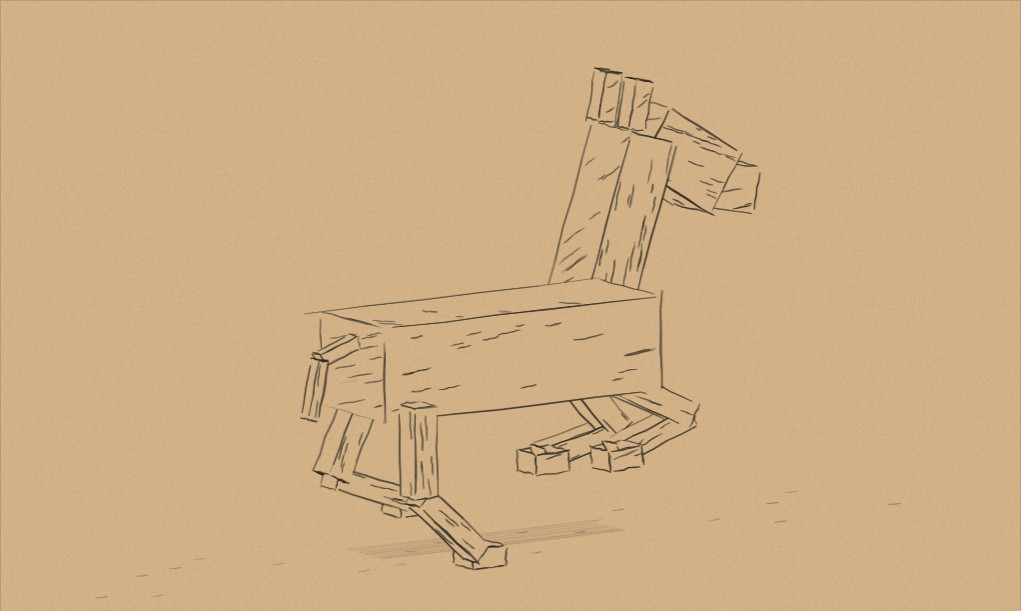
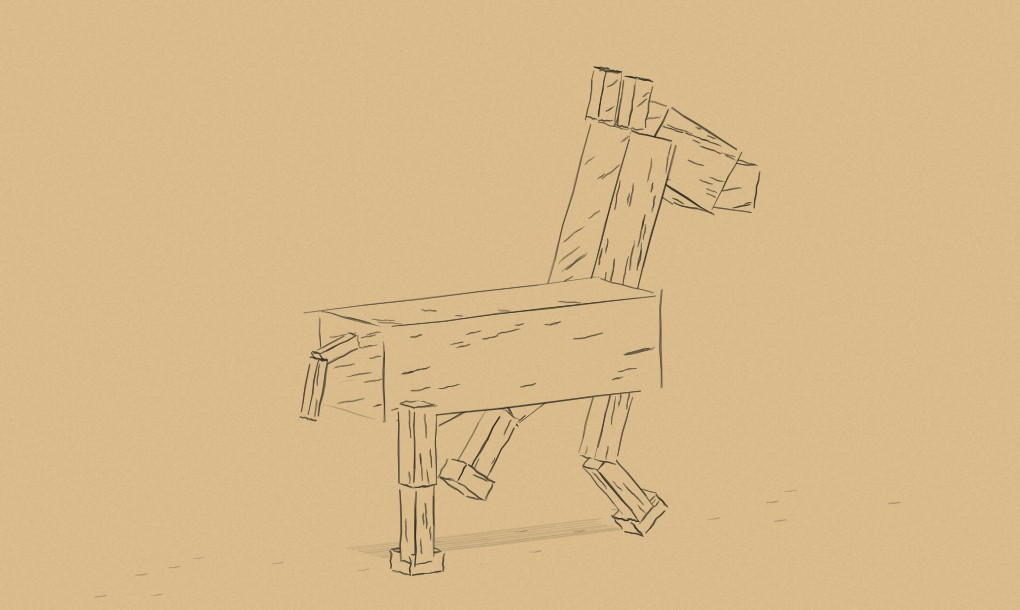
feat: give Honse one body spring and three silly move modes
Session: ses_f0e66500effeWBmyog7H3zwBqT

diff --git a/src/components/interactive/horse-model.ts b/src/components/interactive/horse-model.ts
@@ -1,8 +1,10 @@
 export type Vec3 = [number, number, number];
-export type HorseSettings = { speed: number; gravity: number; goofy: number };
+export const HORSE_MODES = ['flail', 'naruto', 'paddle'] as const;
+export type HorseMode = typeof HORSE_MODES[number];
+export type HorseSettings = { speed: number; gravity: number; goofy: number; mode: HorseMode };
 export type HorseState = {
   time: number; phase: number; height: number; velocity: number;
-  pitch: number; spin: number; contacts: number;
+  springForce: number;
 };
 export type HorseBlock = { id: number; center: Vec3; size: Vec3; angle: number };
 export const HORSE_STEP = 1/120;
@@ -10,104 +12,80 @@ const TAU = Math.PI*2;
 const clamp = (x:number,a:number,b:number) => Math.max(a,Math.min(b,x));
 
 export function createHorse(): HorseState {
-  return {time:0,phase:0,height:1.65,velocity:0,pitch:0,spin:0,contacts:0};
+  return {time:0,phase:0,height:1.65,velocity:0,springForce:0};
 }
 
-// A stylized transverse four-beat order: hind pair, then front pair, with a
-// flight window. These are motor targets, not a measured equine gait.
+// Legs are visual appendages only. They never enter the body force calculation.
 const legs = [
-  {x:-1.03,z:.42,offset:0,bend:-1}, {x:-1.03,z:-.42,offset:.12,bend:-1},
-  {x:1.02,z:.42,offset:.40,bend:1}, {x:1.02,z:-.42,offset:.53,bend:1},
+  {x:-1.03,z:.42}, {x:-1.03,z:-.42},
+  {x:1.02,z:.42}, {x:1.02,z:-.42},
 ];
-
-function legTarget(phase:number, index:number, goofy:number): Vec3 {
-  const leg=legs[index];
-  const cycle=((phase/TAU-leg.offset)%1+1)%1;
-  const stance=.25;
-  const swing=clamp((cycle-stance)/(1-stance),0,1);
-  const stride=.48+goofy*.22;
-  const x=cycle<stance ? stride*(1-2*cycle/stance) : stride*(-1+2*swing);
-  const lift=cycle<stance ? 0 : Math.sin(Math.PI*swing)*(.58+goofy*.27);
-  return [leg.x+x,-1.65+lift,leg.z];
-}
 
 function pitchPoint(p:Vec3, angle:number): Vec3 {
   return [p[0]*Math.cos(angle)-p[1]*Math.sin(angle),p[0]*Math.sin(angle)+p[1]*Math.cos(angle),p[2]];
 }
 
-/** Small, motor-driven toy dynamics: semi-implicit fixed steps, gravity,
- * spring/damper hoof contacts and a pitch inertia. Inspired by APS's separation
- * of actuator commands, integration and visual geometry; not a MuJoCo port. */
+/** One invisible, powered spring under the main body. Gravity and this spring
+ * are the only continuous forces. Its oscillating rest length keeps the bounce
+ * going; the attached spring pushes when compressed and pulls when stretched.
+ * Movement modes affect presentation only, not support, collisions or physics. */
 export function stepHorse(state:HorseState, settings:HorseSettings, dt=HORSE_STEP) {
-  const oldPhase=state.phase;
   state.phase=(state.phase+dt*TAU*1.25*settings.speed)%TAU;
   state.time+=dt;
-  let force=0, torque=0, contacts=0;
-  for (let i=0;i<4;i++) {
-    const old=pitchPoint(legTarget(oldPhase,i,settings.goofy),state.pitch);
-    const foot=pitchPoint(legTarget(state.phase,i,settings.goofy),state.pitch);
-    const ground=state.height+foot[1]-.125;
-    const velocity=state.velocity+.25*(foot[1]-old[1])/dt+state.spin*foot[0];
-    if (ground<0) {
-      const reaction=clamp(-ground*600-velocity*20,0,120);
-      force+=reaction; torque+=foot[0]*reaction;
-      if (reaction>1) contacts++;
-    }
-  }
-  const mass=8, inertia=6;
-  state.velocity+=(force/mass-settings.gravity)*dt;
+  const mass=8, stiffness=260, damping=18;
+  const restHeight=1.98+Math.sin(state.phase)*(.16+settings.goofy*.20);
+  const compression=restHeight-state.height;
+  state.springForce=clamp(stiffness*compression-damping*state.velocity,-400,400);
+  state.velocity+=(state.springForce/mass-settings.gravity)*dt;
   state.height+=state.velocity*dt;
-  // A modest attitude controller stands in for the horse's balance reflex.
-  const targetPitch=Math.sin(state.phase-.6)*settings.goofy*.045;
-  state.spin+=(torque-300*(state.pitch-targetPitch)-55*state.spin)/inertia*dt;
-  state.pitch+=state.spin*dt;
-  if (Math.abs(state.pitch)>.45) { state.pitch=clamp(state.pitch,-.45,.45); state.spin*=.3; }
-  // Torso floor guard for extreme control settings and deliberate silly hops.
-  if (state.height<.72) { state.height=.72; state.velocity=Math.max(0,-state.velocity*.12); }
-  // Bound penetration of the compliant contacts (a positional solver guard,
-  // not a prescribed height animation). This also handles a motor moving fast
-  // enough to cross the floor between fixed steps.
-  let penetration=0;
-  for(let i=0;i<4;i++) {
-    const foot=pitchPoint(legTarget(state.phase,i,settings.goofy),state.pitch);
-    penetration=Math.max(penetration,.125-state.height-foot[1]);
-  }
-  if(penetration>.065) {state.height+=penetration-.065;state.velocity=Math.max(state.velocity,-.8);}
-  state.contacts=contacts;
 }
 
 export function hopHorse(state:HorseState) { state.velocity=clamp(state.velocity+2.7,0,4.3); }
 
 export function horseBlocks(state:HorseState, settings:HorseSettings): HorseBlock[] {
   const blocks:HorseBlock[]=[];
+  const {phase}=state,{mode,goofy}=settings;
+  // Lean and wobble belong to the performance, not the spring simulation.
+  const pitch=mode==='naruto' ? -.18-goofy*.12+Math.sin(phase*2)*.025
+    : Math.sin(phase)*(mode==='paddle' ? .025 : .025+goofy*.055);
   const local=(p:Vec3):Vec3=>{
-    const q=pitchPoint(p,state.pitch); return [q[0],q[1]+state.height,q[2]];
+    const q=pitchPoint(p,pitch); return [q[0],q[1]+state.height,q[2]];
   };
-  const box=(id:number,center:Vec3,size:Vec3,angle=0)=>blocks.push({id,center:local(center),size,angle:angle+state.pitch});
+  const box=(id:number,center:Vec3,size:Vec3,angle=0)=>blocks.push({id,center:local(center),size,angle:angle+pitch});
   const beam=(id:number,a:Vec3,b:Vec3,width:number,depth:number)=>{
     const len=Math.hypot(b[0]-a[0],b[1]-a[1]);
     box(id,[(a[0]+b[0])/2,(a[1]+b[1])/2,(a[2]+b[2])/2],[len,width,depth],Math.atan2(b[1]-a[1],b[0]-a[0]));
   };
   box(0,[0,0,0],[2.85,.82,1.0]);
   const nod=Math.sin(state.phase-1)*(.025+settings.goofy*.11);
-  const neckBase:Vec3=[1.0,.3,0], poll:Vec3=[1.55+nod,1.76,0];
+  const lean=mode==='naruto'?1:0;
+  const neckBase:Vec3=[1.0,.3,0], poll:Vec3=[1.55+nod+lean*.40,1.76-lean*.38,0];
   beam(1,neckBase,poll,.49,.62);
-  beam(2,poll,[2.28+nod,1.36+nod,0],.59,.65);
-  box(3,[2.36+nod,1.32+nod,0],[.46,.40,.68],-.12+nod);
-  box(4,[1.40+nod,2.06,.24],[.17,.43,.18],-.12+nod);
-  box(5,[1.40+nod,2.06,-.24],[.17,.43,.18],-.12+nod);
+  beam(2,poll,[2.28+nod+lean*.5,1.36+nod-lean*.38,0],.59,.65);
+  box(3,[2.36+nod+lean*.5,1.32+nod-lean*.38,0],[.46,.40,.68],-.12+nod);
+  box(4,[1.40+nod+lean*.4,2.06-lean*.38,.24],[.17,.43,.18],-.12+nod);
+  box(5,[1.40+nod+lean*.4,2.06-lean*.38,-.24],[.17,.43,.18],-.12+nod);
   for (let i=0;i<4;i++) {
     const leg=legs[i], hip:Vec3=[leg.x,-.31,leg.z];
-    const target=legTarget(state.phase,i,settings.goofy);
-    const dx=target[0]-hip[0], dy=target[1]-hip[1];
-    const length=Math.max(.01,Math.hypot(dx,dy));
-    const reach=Math.min(length,1.58);
-    const foot:Vec3=[hip[0]+dx/length*reach,hip[1]+dy/length*reach,leg.z];
-    const bend=Math.sqrt(Math.max(0,.80*.80-reach*reach/4))*leg.bend;
-    const knee:Vec3=[(hip[0]+foot[0])/2-dy/length*bend,(hip[1]+foot[1])/2+dx/length*bend,leg.z];
+    let upper:number,lower:number;
+    if(mode==='paddle') {
+      upper=phase+i*Math.PI/2-Math.PI/2;
+      lower=upper+Math.sin(phase+i)*.08;
+    } else if(mode==='naruto' && i>=2) {
+      upper=-Math.PI+.32+Math.sin(phase*3+i)*.07;
+      lower=upper+.08+Math.sin(phase*3+i)*.10;
+    } else if(mode==='naruto') {
+      upper=-Math.PI/2+Math.sin(phase*2+i*Math.PI)*(.8+goofy*.3);
+      lower=upper+.6+Math.sin(phase*2+i*Math.PI-1)*.65;
+    } else {
+      upper=-Math.PI/2+Math.sin(phase+i*1.7)*(.7+goofy*.8);
+      lower=upper+Math.sin(phase*2+i*.9)*(.6+goofy*.8);
+    }
+    const knee:Vec3=[hip[0]+Math.cos(upper)*.70,hip[1]+Math.sin(upper)*.70,leg.z];
+    const foot:Vec3=[knee[0]+Math.cos(lower)*.67,knee[1]+Math.sin(lower)*.67,leg.z];
     beam(10+i*3,hip,knee,.22,.25);
     beam(11+i*3,knee,foot,.19,.23);
-    box(12+i*3,[foot[0]+.04,foot[1]-.035,leg.z],[.34,.18,.30],.08*Math.sin(state.phase+i));
+    box(12+i*3,foot,mode==='paddle'?[.53,.16,.42]:[.34,.18,.30],lower+Math.PI/2);
   }
   const swish=Math.sin(state.phase+.4)*(.10+settings.goofy*.18);
   beam(30,[-1.40,.22,0],[-1.78,.02+swish,0],.11,.13);

diff --git a/src/components/interactive/horse-player.ts b/src/components/interactive/horse-player.ts
@@ -1,4 +1,4 @@
-import { createHorse, stepHorse, hopHorse, HORSE_STEP, type HorseSettings } from './horse-model';
+import { createHorse, stepHorse, hopHorse, HORSE_STEP, type HorseSettings, type HorseMode } from './horse-model';
 import { HorseDrawing } from './horse-drawing';
 
 export function initHorse(root:HTMLElement) {
@@ -10,15 +10,17 @@ export function initHorse(root:HTMLElement) {
   const shading=root.querySelector<HTMLInputElement>('[data-shading]')!;
   const status=root.querySelector<HTMLElement>('[data-status]')!;
   const reduced=matchMedia('(prefers-reduced-motion: reduce)');
+  const modeButtons=[...root.querySelectorAll<HTMLButtonElement>('[data-mode]')];
+  let mode:HorseMode='flail';
   let state=createHorse(),yaw=-.58,elevation=.18;
   let running=!reduced.matches,visible=false,frame=0,last=0,accumulator=0;
   let drag:{id:number;x:number;y:number}|null=null;
   let drawing:HorseDrawing;
-  const settings=():HorseSettings=>({speed:Number(speed.value),gravity:Number(gravity.value),goofy:Number(goofy.value)/100});
+  const settings=():HorseSettings=>({speed:Number(speed.value),gravity:Number(gravity.value),goofy:Number(goofy.value)/100,mode});
   const stop=()=>{cancelAnimationFrame(frame);frame=0;last=0;accumulator=0;};
   const request=()=>{if(!frame&&visible&&!document.hidden)frame=requestAnimationFrame(tick);};
   function setRunning(value:boolean){
-    running=value;play.textContent=value?'Pause':'Gallop';play.setAttribute('aria-pressed',String(value));last=0;request();
+    running=value;play.textContent=value?'Pause':'Go!';play.setAttribute('aria-pressed',String(value));last=0;request();
   }
   function tick(now:number){
     frame=0;
@@ -33,7 +35,7 @@ export function initHorse(root:HTMLElement) {
     }else accumulator=0;
     drawing.draw(state,s,yaw,elevation,shading.checked);
     root.dataset.ready='';
-    root.querySelector('[data-contact]')!.textContent=state.time===0?'ready to gallop':state.contacts?`${state.contacts} hooves pushing`:'airborne, approximately';
+    root.querySelector('[data-bounce]')!.textContent=state.time===0?'ready to boing':state.springForce>1?'spring pushing':state.springForce< -1?'spring pulling':'boing';
     if(running)request();else last=0;
   }
   function resize(){
@@ -56,11 +58,23 @@ export function initHorse(root:HTMLElement) {
     request();
   }
   function hop(){hopHorse(state);setRunning(true);}
+  function selectMode(next:HorseMode){
+    mode=next;root.dataset.moveMode=mode;
+    modeButtons.forEach(button=>button.setAttribute('aria-pressed',String(button.dataset.mode===mode)));
+    root.querySelector('[data-mode-note]')!.textContent={
+      flail:'One invisible body spring. Four completely unhelpful legs.',
+      naruto:'Lean forward. Front legs swept back. Hind legs doing their best.',
+      paddle:'Four rotating paddles. Same spring. Questionable nautical credentials.',
+    }[mode];
+    request();
+  }
+  modeButtons.forEach(button=>button.addEventListener('click',()=>selectMode(button.dataset.mode as HorseMode)));
   play.addEventListener('click',()=>setRunning(!running));
   root.querySelector('[data-hop]')!.addEventListener('click',hop);
   root.querySelector('[data-reset]')!.addEventListener('click',()=>{
     state=createHorse();yaw=-.58;elevation=.18;accumulator=0;
     [speed,gravity,goofy].forEach(input=>input.value=input.defaultValue);shading.checked=true;
+    selectMode('flail');
     update();setRunning(!reduced.matches);
   });
   [speed,gravity,goofy,shading].forEach(input=>input.addEventListener('input',update));
@@ -99,5 +113,5 @@ export function initHorse(root:HTMLElement) {
   reduced.addEventListener('change',()=>{if(reduced.matches)setRunning(false);});
   addEventListener('pagehide',event=>{stop();if(!event.persisted){observer.disconnect();resizer.disconnect();}});
   addEventListener('pageshow',request);
-  update();setRunning(running);
+  selectMode(mode);update();setRunning(running);
 }

diff --git a/docs/pencil-horse.md b/docs/pencil-horse.md
@@ -2,10 +2,12 @@
 
 ## Outcome
 
-`/honse/` is a standalone, touch/keyboard-friendly galloping sketch based
+`/honse/` is a standalone, touch/keyboard-friendly spring-powered sketch based
 on the user's supplied block-horse drawing. The original image is not uploaded.
 Body, neck, muzzle, ears, articulated rectangular legs, hooves and tail are built
-from small boxes. The horse runs in place over scrolling pencil ground marks.
+from small boxes. One invisible spring supports the main body; the legs are
+decorative. Movement modes: Legs flailing, Naruto running and Paddle steamer.
+The horse runs in place over scrolling pencil ground marks.
 
 ## Evidence and choices
 
@@ -22,35 +24,41 @@ from small boxes. The horse runs in place over scrolling pencil ground marks.
   https://mujoco.readthedocs.io/en/stable/XMLreference.html . Reused that recent
   evidence rather than adding a different engine for this small toy.
 - Considered both APS's nine-body-specific GPU solver and its MuJoCo worker.
-  Chose a much smaller original toy
-  solver: a vertical mass, pitch inertia, four compliant hoof contacts and a
-  balance controller. Semi-implicit integration uses a fixed 1/120 s step;
+  Following the updated art direction, chose a much smaller original toy
+  solver: one vertical mass and an invisible attached spring/damper. Gravity
+  and the spring are its only continuous forces; Hop supplies an explicit impulse.
+  The spring rest length pulses with tempo to sustain the bounce. The attached
+  spring pushes and pulls, avoiding the excessive low-gravity launch heights seen
+  in an initial compression-only prototype. Semi-implicit integration uses a fixed 1/120 s step;
   rendering is capped at 24 Hz, with bounded catch-up and no hidden-tab work.
-- A four-beat, hind-pair/front-pair motor cycle and two-link IK drive the legs.
-  This is a stylized gait, not motion capture, biomechanics, a full articulated
-  rigid-body solver, or a claim of a physically trained gallop. Foot-velocity
-  feedthrough is softened; position correction bounds contact penetration.
+- The previous hoof contacts, pitch dynamics and foot-driven body corrections
+  are removed. Limb angles, body lean and head/tail poses are presentation only.
+  Mode switches do not reset or affect the spring trajectory. Flail uses loose
+  bent-leg swings; Naruto sweeps the forelegs back and cycles the hindlegs;
+  Paddle rotates extended legs through full circles with wider paddle hooves.
+  None is motion capture, biomechanics or a full articulated rigid-body solver.
 - The existing drawing study's graphite ribbon/filament brush is extracted into
   `pencil-brush.ts` and reused by both drawings. Face-contained planar marks use
   the existing `pencil-facades.ts`. Painter-sorted box faces use paper-colour
   occlusion masks. This lightweight approach can have ordering artifacts where
   boxes intersect; no new graphics/physics dependencies or large meshes.
 - Animation pauses offscreen and when hidden. Reduced-motion users get a still
-  drawing until they press Gallop or Hop. Sliders, drag, arrow keys and Space
+  drawing until they press Go or Hop. Sliders, mode buttons, drag, arrow keys and Space
   cover pointer, touch and keyboard access. A generated still covers no-JS or
   unavailable-canvas cases.
 
 ## Validation
 
-`npm run test:horse` checks analytic free fall independently of rendering,
-support/flight phases, motion in all four legs, control-extreme stability,
-bounded hoof penetration, hop impulses and deterministic reset.
+`npm run test:horse` independently checks the gravity contribution, spring/damper
+force, exact trajectory equality across all modes (including mid-bounce switches),
+control-extreme stability, distinct mode poses, swept-back forelegs, full paddle
+rotations, bounded hop impulses and deterministic reset.
 
 `npm run test:pencil` protects the shared face-containment code. Browser checks
 cover actual animation and controls, mobile framing, pause/reduced motion,
 offscreen suspension, and the existing cube after the shared-brush extraction.
 
-Validated on 3 November: all four horse and four face-containment tests passed;
+Initial version validated on 3 November: all four original horse and four face-containment tests passed;
 strict TypeScript checks and the production build passed. Desktop Chrome and a
 390 px mobile viewport showed distinct galloping frames, a stable paused image,
 working hop/reset/sliders/shading and keyboard/touch orbit, and no page errors.
@@ -63,3 +71,12 @@ layout resize. Direct canvas readbacks during playback showed healthy paper/ink
 pixels and no context loss. The resize callback had cleared the backing canvas
 and deferred repaint until the next animation tick. It now changes dimensions
 only when necessary and redraws the current pose synchronously after resizing.
+
+The 4 November move-mode revision passes six model tests, strict TypeScript and the build.
+Browser checks confirm that all three modes produce distinct poses and moving
+canvas pixels, mode switching/reset works, reduced motion and pause hold still,
+hop/sliders/orbit work, the 390 px layout fits, offscreen animation stops, and
+resize callbacks leave paper pixels rather than cleared black frames. Mode
+independence is verified by exact state equality over 2,400 fixed steps while
+switching between all three modes. No shared-brush or cube-renderer changes were
+needed for this revision.
